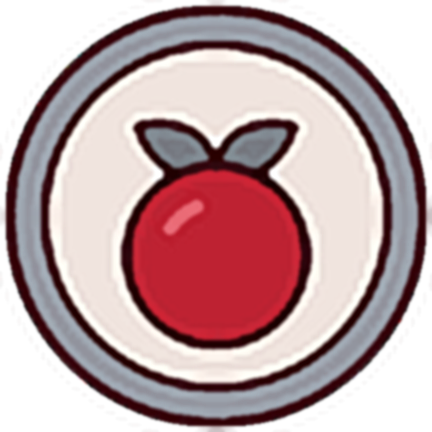
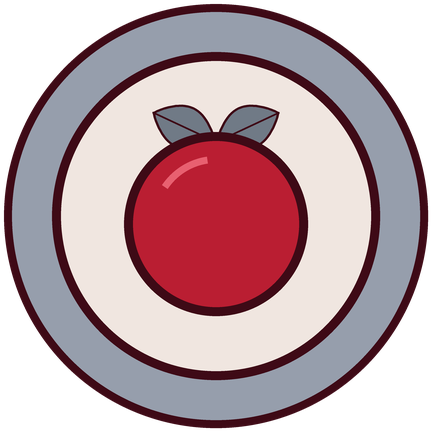
Added sub badges, flair and channel points

Changed region(s): [[0.0, 0.0, 1.0, 1.0], [0.2708, 0.2407, 0.7523, 0.8125], [0.3611, 0.4514, 0.4815, 0.5417]]

diff --git a/index.html b/index.html
@@ -7271,7 +7271,7 @@
     </div>
         <h3 class="gallery-title">Channel point icons</h3>
         <div class="btn-grid">
-      <a class="proj-btn" href="images/twitch-large/channel_points_112.png?v=822b274f" target="_blank" rel="noopener" title="Twitch channel point icon: Channel points">Channel points</a>
+      <a class="proj-btn" href="images/twitch-large/channel_points_112.png?v=e5bc8764" target="_blank" rel="noopener" title="Twitch channel point icon: Channel points">Channel points</a>
       <a class="proj-btn" href="images/twitch/Floral/Points/points_bee_432.png?v=528c81ff" target="_blank" rel="noopener" title="Twitch channel point icon: Floral points bee">Floral points bee</a>
       <a class="proj-btn" href="images/twitch/Floral/Points/points_drop_432.png?v=ce8a2789" target="_blank" rel="noopener" title="Twitch channel point icon: Floral points drop">Floral points drop</a>
       <a class="proj-btn" href="images/twitch/Floral/Points/points_flower_432.png?v=ffe8b3b6" target="_blank" rel="noopener" title="Twitch channel point icon: Floral points flower">Floral points flower</a>
@@ -7361,19 +7361,19 @@
     </div>
         <h3 class="gallery-title">Sub badges</h3>
         <div class="btn-grid">
-      <a class="proj-btn" href="images/twitch-large/Badges/base_72.png?v=de02501d" target="_blank" rel="noopener" title="Twitch subscriber badge: Base">Base</a>
-      <a class="proj-btn" href="images/twitch-large/Badges/2month_72.png?v=16d94eb2" target="_blank" rel="noopener" title="Twitch subscriber badge: 2 month">2 month</a>
-      <a class="proj-btn" href="images/twitch-large/Badges/3month_72.png?v=7ff94508" target="_blank" rel="noopener" title="Twitch subscriber badge: 3 month">3 month</a>
-      <a class="proj-btn" href="images/twitch-large/Badges/6month_72.png?v=7fac48e0" target="_blank" rel="noopener" title="Twitch subscriber badge: 6 month">6 month</a>
-      <a class="proj-btn" href="images/twitch-large/Badges/9month_72.png?v=06c09c97" target="_blank" rel="noopener" title="Twitch subscriber badge: 9 month">9 month</a>
-      <a class="proj-btn" href="images/twitch-large/Badges/1year_72.png?v=fb1a25ab" target="_blank" rel="noopener" title="Twitch subscriber badge: 1 year">1 year</a>
-      <a class="proj-btn" href="images/twitch-large/Badges/1_5year_72.png?v=79af8054" target="_blank" rel="noopener" title="Twitch subscriber badge: 1.5 year">1.5 year</a>
-      <a class="proj-btn" href="images/twitch-large/Badges/2year_72.png?v=e952464d" target="_blank" rel="noopener" title="Twitch subscriber badge: 2 year">2 year</a>
-      <a class="proj-btn" href="images/twitch-large/Badges/2_5year_72.png?v=4bed9b58" target="_blank" rel="noopener" title="Twitch subscriber badge: 2.5 year">2.5 year</a>
-      <a class="proj-btn" href="images/twitch-large/Badges/3year_72.png?v=0265e0e4" target="_blank" rel="noopener" title="Twitch subscriber badge: 3 year">3 year</a>
-      <a class="proj-btn" href="images/twitch-large/Badges/3_5year_72.png?v=521a251d" target="_blank" rel="noopener" title="Twitch subscriber badge: 3.5 year">3.5 year</a>
-      <a class="proj-btn" href="images/twitch-large/Badges/4year_72.png?v=0fe0f7e0" target="_blank" rel="noopener" title="Twitch subscriber badge: 4 year">4 year</a>
-      <a class="proj-btn" href="images/twitch-large/Badges/4_5year_72.png?v=ca08319b" target="_blank" rel="noopener" title="Twitch subscriber badge: 4.5 year">4.5 year</a>
+      <a class="proj-btn" href="images/twitch-large/Badges/base_72.png?v=688d673d" target="_blank" rel="noopener" title="Twitch subscriber badge: Base">Base</a>
+      <a class="proj-btn" href="images/twitch-large/Badges/2month_72.png?v=f6e5a57b" target="_blank" rel="noopener" title="Twitch subscriber badge: 2 month">2 month</a>
+      <a class="proj-btn" href="images/twitch-large/Badges/3month_72.png?v=90453e1d" target="_blank" rel="noopener" title="Twitch subscriber badge: 3 month">3 month</a>
+      <a class="proj-btn" href="images/twitch-large/Badges/6month_72.png?v=a659d23a" target="_blank" rel="noopener" title="Twitch subscriber badge: 6 month">6 month</a>
+      <a class="proj-btn" href="images/twitch-large/Badges/9month_72.png?v=4efb4e4f" target="_blank" rel="noopener" title="Twitch subscriber badge: 9 month">9 month</a>
+      <a class="proj-btn" href="images/twitch-large/Badges/1year_72.png?v=2de9e34e" target="_blank" rel="noopener" title="Twitch subscriber badge: 1 year">1 year</a>
+      <a class="proj-btn" href="images/twitch-large/Badges/1_5year_72.png?v=710c4e77" target="_blank" rel="noopener" title="Twitch subscriber badge: 1.5 year">1.5 year</a>
+      <a class="proj-btn" href="images/twitch-large/Badges/2year_72.png?v=8b18ea16" target="_blank" rel="noopener" title="Twitch subscriber badge: 2 year">2 year</a>
+      <a class="proj-btn" href="images/twitch-large/Badges/2_5year_72.png?v=7e517fcf" target="_blank" rel="noopener" title="Twitch subscriber badge: 2.5 year">2.5 year</a>
+      <a class="proj-btn" href="images/twitch-large/Badges/3year_72.png?v=7e517fcf" target="_blank" rel="noopener" title="Twitch subscriber badge: 3 year">3 year</a>
+      <a class="proj-btn" href="images/twitch-large/Badges/3_5year_72.png?v=4bd7d765" target="_blank" rel="noopener" title="Twitch subscriber badge: 3.5 year">3.5 year</a>
+      <a class="proj-btn" href="images/twitch-large/Badges/4year_72.png?v=39db344e" target="_blank" rel="noopener" title="Twitch subscriber badge: 4 year">4 year</a>
+      <a class="proj-btn" href="images/twitch-large/Badges/4_5year_72.png?v=39db344e" target="_blank" rel="noopener" title="Twitch subscriber badge: 4.5 year">4.5 year</a>
       <a class="proj-btn" href="images/twitch/Floral/Badges/1year_432.png?v=3aa7a4ef" target="_blank" rel="noopener" title="Twitch subscriber badge: Floral 1 year">Floral 1 year</a>
       <a class="proj-btn" href="images/twitch/Floral/Badges/2year_432.png?v=bce54367" target="_blank" rel="noopener" title="Twitch subscriber badge: Floral 2 year">Floral 2 year</a>
       <a class="proj-btn" href="images/twitch/Floral/Badges/3month_432.png?v=08fdd9d3" target="_blank" rel="noopener" title="Twitch subscriber badge: Floral 3 month">Floral 3 month</a>
@@ -7467,8 +7467,8 @@
       <a class="proj-btn" href="images/twitch/Strikeline/Flair/tier3_flair_432.png?v=2e385617" target="_blank" rel="noopener" title="Twitch chat flair: Strikeline tier3 flair">Strikeline tier3 flair</a>
       <a class="proj-btn" href="images/twitch/Tessel/Flair/tier2_flair_432.png?v=33b426b3" target="_blank" rel="noopener" title="Twitch chat flair: Tessel tier2 flair">Tessel tier2 flair</a>
       <a class="proj-btn" href="images/twitch/Tessel/Flair/tier3_flair_432.png?v=7852c375" target="_blank" rel="noopener" title="Twitch chat flair: Tessel tier3 flair">Tessel tier3 flair</a>
-      <a class="proj-btn" href="images/twitch-large/Flair/tier2_flair_72.png?v=55b100f2" target="_blank" rel="noopener" title="Twitch chat flair: Tier2 flair">Tier2 flair</a>
-      <a class="proj-btn" href="images/twitch-large/Flair/tier3_flair_72.png?v=f9df2f13" target="_blank" rel="noopener" title="Twitch chat flair: Tier3 flair">Tier3 flair</a>
+      <a class="proj-btn" href="images/twitch-large/Flair/tier2_flair_72.png?v=e9fe532b" target="_blank" rel="noopener" title="Twitch chat flair: Tier2 flair">Tier2 flair</a>
+      <a class="proj-btn" href="images/twitch-large/Flair/tier3_flair_72.png?v=9d72e301" target="_blank" rel="noopener" title="Twitch chat flair: Tier3 flair">Tier3 flair</a>
     </div>
         <h3 class="gallery-title">Starting soon screen</h3>
         <div class="btn-grid">

diff --git a/tools/make_orig_hd2.py b/tools/make_orig_hd2.py
@@ -1,0 +1,23 @@
+#!/usr/bin/env python3
+"""High-quality redraws of the original sub badges, flair and channel point icon (drawn natively at 432 px, no enlarging).
+Saved in images/twitch-large/ next to the originals, which are never changed."""
+import make_rose as mr
+
+LARGE = mr.ROOT / "images" / "twitch-large"
+
+
+def main():
+    mr.SS = 6
+    (LARGE / "Badges").mkdir(parents=True, exist_ok=True)
+    (LARGE / "Flair").mkdir(parents=True, exist_ok=True)
+    for t in mr.BADGES:
+        mr.badge(t).save(LARGE / "Badges" / f"{t[0]}_72.png", optimize=True)
+        print("badge", t[0], flush=True)
+    for tier in (2, 3):
+        mr.flair(tier).save(LARGE / "Flair" / f"tier{tier}_flair_72.png", optimize=True)
+    mr.points_icon("berry").save(LARGE / "channel_points_112.png", optimize=True)
+    print("done")
+
+
+if __name__ == "__main__":
+    main()
